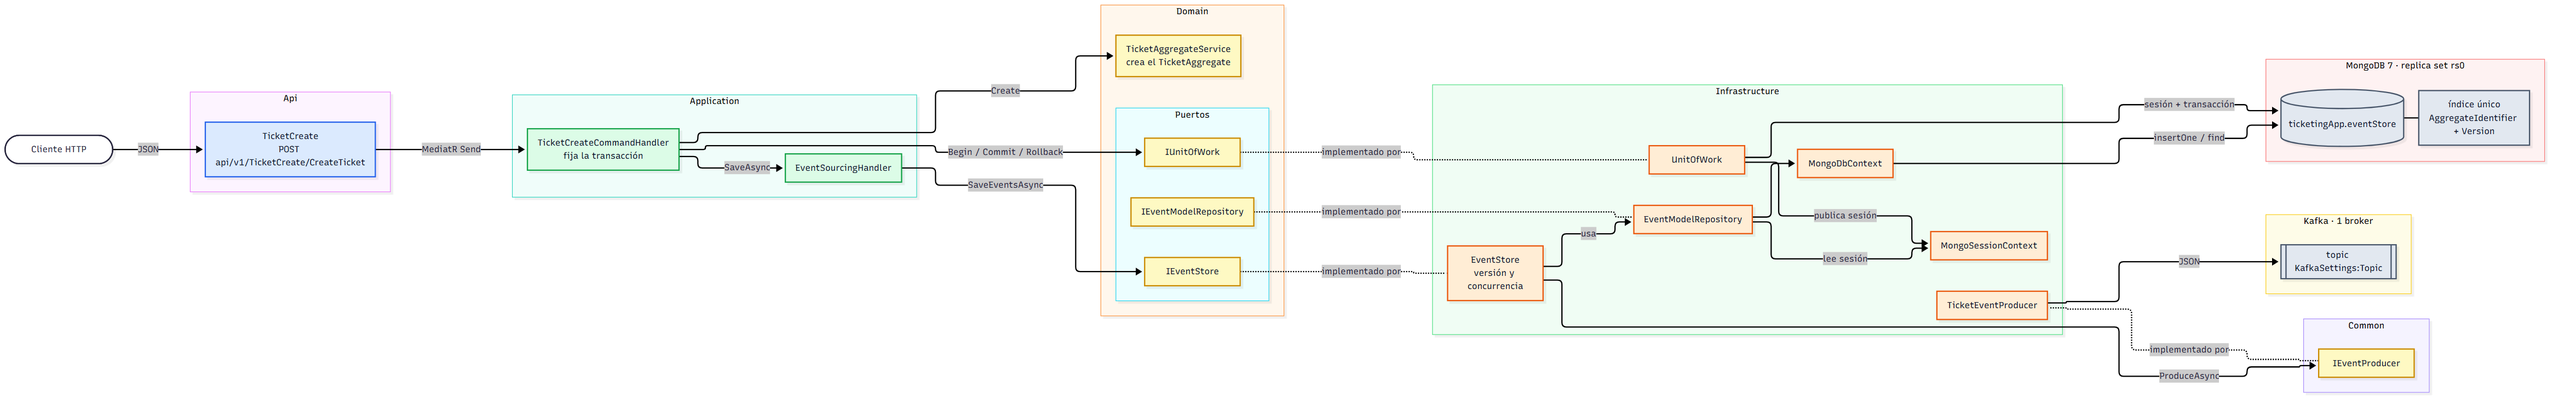
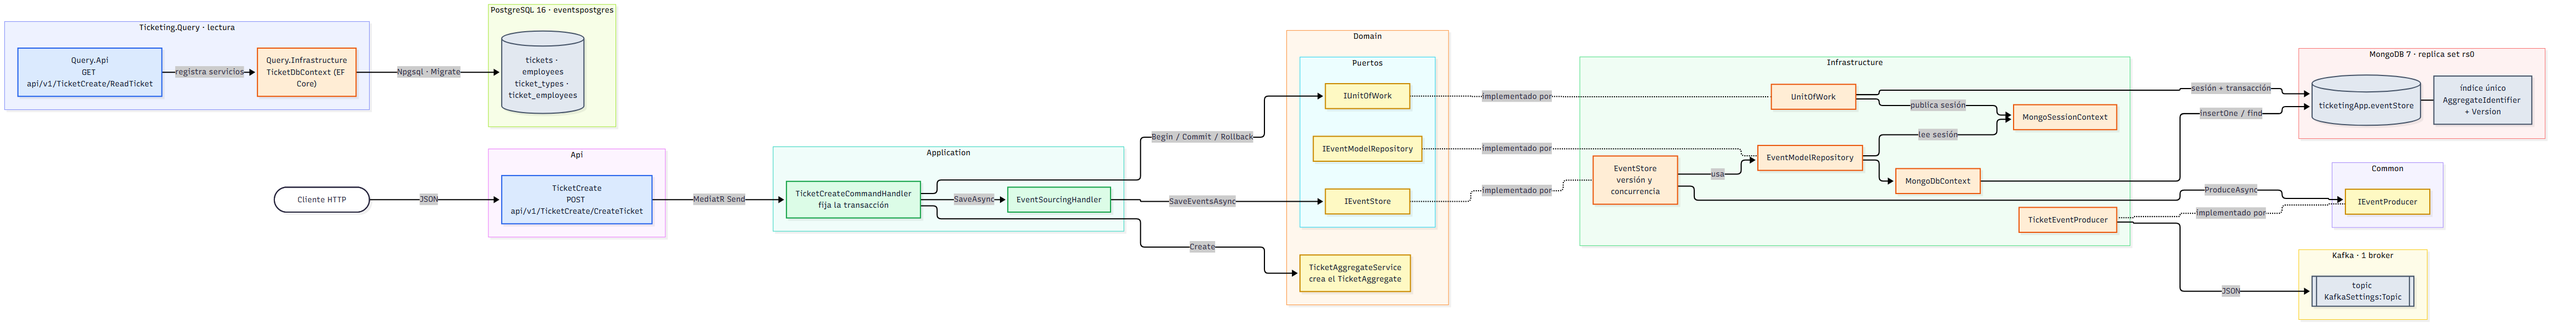
documentation update

diff --git a/Microservices-Events/docs/arquitectura.md b/Microservices-Events/docs/arquitectura.md
@@ -17,20 +17,23 @@ flowchart LR
         Infra[Infrastructure] --> Dom
         Api --> Infra
     end
-    Query[Ticketing.Query.Api]
+    Query[Ticketing.Query<br/>Api · Application · Domain · Infrastructure]
     Common[(Ticketing.Common<br/>Message · eventos · Response · ErrorType)]
     Mongo[(MongoDB<br/>ticketingApp.eventStore)]
+    Postgres[(PostgreSQL<br/>eventspostgres)]
     Kafka[[Kafka<br/>topic de eventos]]
 
     Client -->|POST| Api
     Infra --> Mongo
     Infra --> Kafka
+    Query --> Postgres
     App --> Common
     Dom --> Common
 ```
 
 - **`Ticketing.Command`** recibe órdenes y las convierte en eventos. Es el único lado con lógica.
-- **`Ticketing.Query.Api`** es la API del servicio de consulta, un proyecto independiente.
+- **`Ticketing.Query`** es el servicio de consulta: cuatro capas propias y un modelo relacional en
+  PostgreSQL. Estructura y modelo de datos en [*Estructura de Ticketing.Query*](query-estructura.md).
 - **`Ticketing.Common`** (`Ticketing.Core/`) es lo que ambos servicios deben entender igual: la jerarquía
   de eventos, el contrato de respuesta y el puerto `IEventProducer`. No conoce MongoDB ni ASP.NET.
 - **Kafka** recibe cada evento que se guarda en Mongo. Hoy solo lo escribe `Ticketing.Command`; ningún
@@ -97,6 +100,17 @@ flowchart LR
         Topic[["topic KafkaSettings:Topic"]]
     end
 
+    subgraph QUERY["Ticketing.Query · lectura"]
+        direction TB
+        QApi["Query.Api<br/>GET api/v1/TicketCreate/ReadTicket"]
+        QInf["Query.Infrastructure<br/>TicketDbContext (EF Core)"]
+    end
+
+    subgraph PG["PostgreSQL 16 · eventspostgres"]
+        direction TB
+        Tables[("tickets · employees<br/>ticket_types · ticket_employees")]
+    end
+
     Client -->|JSON| Ctrl
     Ctrl -->|MediatR Send| Handler
     Handler -->|Create| TAS
@@ -119,18 +133,20 @@ flowchart LR
     DbCtx -->|insertOne / find| Coll
     Coll --- Idx
     Prod -->|JSON| Topic
+    QApi -->|registra servicios| QInf
+    QInf -->|Npgsql · Migrate| Tables
 
     classDef api fill:#dbeafe,stroke:#2563eb,color:#0f172a
     classDef app fill:#dcfce7,stroke:#16a34a,color:#0f172a
     classDef dom fill:#fef9c3,stroke:#ca8a04,color:#0f172a
     classDef inf fill:#ffedd5,stroke:#ea580c,color:#0f172a
     classDef db fill:#e2e8f0,stroke:#475569,color:#0f172a
-    class Ctrl api
+    class Ctrl,QApi api
     class Handler,ESH app
     class TAS,IUoW,IES,IEMR dom
-    class UoW,Ctx,ES,Repo,DbCtx,Prod inf
+    class UoW,Ctx,ES,Repo,DbCtx,Prod,QInf inf
     class IEP dom
-    class Coll,Idx,Topic db
+    class Coll,Idx,Topic,Tables db
 ```
 
 **Cómo leerlo**
@@ -168,7 +184,11 @@ La dependencia apunta siempre hacia dentro (hacia `Domain`):
 | `Ticketing.Command.Infrastructure` | Los **adaptadores**: los de MongoDB (contexto, sesión, Unit of Work, repositorio, `EventStore`, mapeos BSON e índices) y el productor de Kafka (`TicketEventProducer`). | `Domain` | `MongoDB.Driver` y `MongoDB.Bson` 3.12.0, `Microsoft.Extensions.Configuration.Abstractions`, `Microsoft.Extensions.Options`; `Confluent.Kafka` llega transitivo desde `Common` |
 | `Ticketing.Command.UnitTest` | Proyecto de tests. | — | xUnit 2.9.3, coverlet |
 | `Ticketing.Common` | Contratos compartidos: eventos, `Response<T>`, `ErrorType` e `IEventProducer`. | — | `Confluent.Kafka` 2.16.0, `Microsoft.Extensions.Logging.Abstractions` |
-| `Ticketing.Query.Api` | API del servicio de consulta. | — | `Microsoft.AspNetCore.OpenApi` |
+| `Ticketing.Query.Api` | HTTP del servicio de consulta: controller, versionado, Swagger. *Composition root*; ejecuta `Migrate()` al arrancar. | `Application`, `Infrastructure`, `Common` | `Asp.Versioning.Mvc` y `.ApiExplorer` 10.2.1, `Swashbuckle.AspNetCore` y `.Annotations` 10.3.1, `MediatR` 14.2.0, `Microsoft.AspNetCore.OpenApi` 10.0.11 |
+| `Ticketing.Query.Application` | Caso de uso `ReadTicket`: comando, handler (MediatR) y validador (FluentValidation). | `Common` | `MediatR` 14.2.0, `FluentValidation` y `.DependencyInjectionExtensions` 12.2.0, `AutoMapper` 16.2.0 |
+| `Ticketing.Query.Domain` | Entidades (`Ticket`, `TicketType`, `Employee`), `BaseAudit` y el value object `Address`. | — | — |
+| `Ticketing.Query.Infrastructure` | `TicketDbContext`, configuraciones de entidad y migraciones de PostgreSQL. | `Domain` | `Microsoft.EntityFrameworkCore` 10.0.14, `Npgsql.EntityFrameworkCore.PostgreSQL` 10.0.3 |
+| `Ticketing.Query.UnitTest` | Proyecto de tests. | — | — |
 
 `Application` solo ve interfaces de `Domain`; nunca `MongoDB.Driver`. Eso es lo que permite que el handler
 sea el mismo si mañana el event store deja de ser MongoDB.

diff --git a/Microservices-Events/README.md b/Microservices-Events/README.md
@@ -1,6 +1,6 @@
 # Microservices-Events — Ticketing
 
-Proyecto de microservicios **dirigidos por eventos** en **.NET 10** con **MongoDB** y **Kafka**. Es un proyecto de
+Proyecto de microservicios **dirigidos por eventos** en **.NET 10** con **MongoDB**, **Kafka** y **PostgreSQL**. Es un proyecto de
 aprendizaje independiente del monolito: no forma parte de la migración Strangler Fig, tiene su propia
 solución y su propio Docker.
 
@@ -22,8 +22,8 @@ suelen explicarse solo en teoría:
 |---|---|
 | `Ticketing.Command` (Api, Application, Domain, Infrastructure) | Lado de escritura: `POST api/v1/TicketCreate/CreateTicket` crea un ticket, guarda su `TicketCreatedEvent` en el event store dentro de una transacción y lo publica en Kafka |
 | `Ticketing.Common` | Contratos compartidos entre servicios: `Message`, `EventBase`, los eventos, `Response<T>`, `ErrorType` e `IEventProducer` |
-| `Ticketing.Query.Api` | API del servicio de consulta (sin consumidor de Kafka todavía) |
-| Docker | MongoDB 7 como replica set de un nodo; Zookeeper, un broker de Kafka 3.7 y Kafka UI (`localhost:8080`) |
+| `Ticketing.Query` (Api, Application, Domain, Infrastructure) | Lado de lectura: modelo relacional en PostgreSQL con EF Core, migración `Initial` y el esqueleto del caso de uso `ReadTicket` (sin consumidor de Kafka todavía). Ver [*Estructura de Ticketing.Query*](docs/query-estructura.md) |
+| Docker | MongoDB 7 como replica set de un nodo; Zookeeper, un broker de Kafka 3.7 y Kafka UI (`localhost:8080`); PostgreSQL 16 |
 | CI | `ci-micro-events.yaml`: restaura, compila y ejecuta el proyecto de tests |
 
 ## Arquitectura
@@ -61,7 +61,7 @@ petición, están en [*Arquitectura*](docs/arquitectura.md#vista-de-componentes)
 
 ```
 Microservices-Events/
-├── Docker/docker-compose.yml          MongoDB (replica set rs0), Zookeeper, Kafka y Kafka UI
+├── Docker/docker-compose.yml          MongoDB (replica set rs0), Zookeeper, Kafka, Kafka UI y PostgreSQL
 ├── docs/                              Documentación (ver tabla siguiente)
 └── Ticketing/
     ├── Ticketing.slnx
@@ -74,7 +74,11 @@ Microservices-Events/
     │   ├── Ticketing.Command.Infrastructure/  MongoDB: contexto, sesión, UoW, repositorio, EventStore, mapeos, índices; productor de Kafka
     │   └── Ticketing.Command.UnitTest/
     └── Ticketing.Query/
-        └── Ticketing.Query.Api/
+        ├── Ticketing.Query.Api/             Controller, versionado, composition root; Migrate() al arrancar
+        ├── Ticketing.Query.Application/     Feature ReadTicket (MediatR, FluentValidation)
+        ├── Ticketing.Query.Domain/          Entidades, BaseAudit y value object Address
+        ├── Ticketing.Query.Infrastructure/  TicketDbContext, configuraciones de entidad y migraciones (PostgreSQL)
+        └── Ticketing.Query.UnitTest/
 ```
 
 ## Documentación
@@ -82,6 +86,7 @@ Microservices-Events/
 | Documento | Qué cuenta |
 |---|---|
 | [Arquitectura](docs/arquitectura.md) | Proyectos y dependencias, arranque, registro en DI y recorrido completo de una petición |
+| [Estructura de Ticketing.Query](docs/query-estructura.md) | Proyectos y dependencias del lado de lectura, modelo de datos en PostgreSQL, migraciones y lo que queda pendiente |
 | [Agregados y event sourcing](docs/agregados.md) | Cómo se modela un ticket como agregado inmutable, qué significan sus versiones y cómo se reproduce desde sus eventos |
 | [Event store y modelo de eventos](docs/event-store.md) | Cómo se guarda (y publica) un evento, el control de concurrencia, el mapeo a MongoDB y cómo añadir un evento nuevo |
 | [Mensajería con Kafka](docs/mensajeria-kafka.md) | El compose de Kafka, los dos listeners, el productor, cuándo se publica cada evento y las limitaciones actuales |
@@ -90,7 +95,7 @@ Microservices-Events/
 
 ## Stack
 
-.NET 10 · ASP.NET Core (controllers) · MongoDB 7 + `MongoDB.Driver` 3.12 · Kafka 3.7 + `Confluent.Kafka` 2.16 ·
+.NET 10 · ASP.NET Core (controllers) · MongoDB 7 + `MongoDB.Driver` 3.12 · Kafka 3.7 + `Confluent.Kafka` 2.16 · PostgreSQL 16 + EF Core 10 + `Npgsql.EntityFrameworkCore.PostgreSQL` 10 ·
 MediatR 14 · FluentValidation 12 · Asp.Versioning 10 · Swashbuckle 10 · xUnit.
 
 ## Puesta en marcha rápida

diff --git a/Microservices-Events/docs/entorno-local.md b/Microservices-Events/docs/entorno-local.md
@@ -2,7 +2,8 @@
 
 [← Volver al README](../README.md)
 
-Cómo levantar el proyecto (MongoDB y Kafka) y probar el único endpoint que existe hoy.
+Cómo levantar el proyecto (MongoDB, Kafka y PostgreSQL) y probar el endpoint de `Ticketing.Command`. El
+servicio de consulta y su base de datos tienen su propio apartado: [PostgreSQL y `Ticketing.Query`](#6-postgresql-y-ticketingquery).
 
 ## Requisitos
 
@@ -18,8 +19,9 @@ Desde la raíz del repo:
 docker compose -f Microservices-Events/Docker/docker-compose.yml up -d
 ```
 
-Ese comando levanta también Zookeeper, Kafka y Kafka UI (ver el [apartado 2](#2-kafka-y-su-interfaz)). Para
-arrancar solo MongoDB: `... up -d mongodb`.
+Ese comando levanta también Zookeeper, Kafka y Kafka UI (ver el [apartado 2](#2-kafka-y-su-interfaz)) y
+PostgreSQL (ver el [apartado 6](#6-postgresql-y-ticketingquery)). Para arrancar solo MongoDB:
+`... up -d mongodb`.
 
 | Elemento | Valor |
 |---|---|
@@ -148,6 +150,32 @@ Y el mismo evento publicado en Kafka: en `http://localhost:8080`, *Topics* → e
 ```bash
 docker exec kafka kafka-console-consumer.sh --bootstrap-server kafka:9092 --topic KAFKA_TOPIC --from-beginning
 ```
+
+## 6. PostgreSQL y Ticketing.Query
+
+PostgreSQL lo levanta el mismo compose y es la base del servicio de consulta.
+
+| Elemento | Valor |
+|---|---|
+| Contenedor | `postgresql`, imagen `postgres:16.0` |
+| Puerto en el host | `5432` |
+| Base de datos y usuario | `eventspostgres` y `postgresqlsa` |
+| Volumen con nombre | `postgres_data` (`/var/lib/postgresql/data`) |
+
+La contraseña no está en el compose: el contenedor la extrae de un `secrets.json` que contiene la cadena
+`PostgresConnection`. El compose exige la variable `POSTGRES_SECRETS_DIR` en `Docker/.env`, con la carpeta
+donde está ese fichero; sin ella `docker compose up` falla.
+
+Para arrancar la API de consulta, con PostgreSQL en marcha:
+
+```bash
+dotnet run --project Microservices-Events/Ticketing/Ticketing.Query/Ticketing.Query.Api
+```
+
+La cadena `ConnectionStrings:PostgresConnection` va vacía en `appsettings.json`: se aporta por *User Secrets*
+(o por `secrets.json`/variables de entorno) y debe coincidir con la contraseña del contenedor. Al arrancar,
+la API aplica las migraciones y crea las tablas. Perfiles y puertos:
+`Ticketing.Query/Ticketing.Query.Api/Properties/launchSettings.json`.
 
 ## Tests y CI
 

diff --git a/Microservices-Events/docs/decisiones-tecnicas.md b/Microservices-Events/docs/decisiones-tecnicas.md
@@ -153,6 +153,21 @@ event store: si hubiera que reconstruir un agregado, se hace desde Mongo.
 
 Detalle y limitaciones en [*Mensajería con Kafka*](mensajeria-kafka.md).
 
+### PostgreSQL con EF Core para el modelo de lectura
+
+`Ticketing.Query` guarda el estado ya proyectado en tablas relacionales (`tickets`, `employees`,
+`ticket_types` y la tabla intermedia `ticket_employees`), mientras que `Command` mantiene la secuencia de
+eventos en MongoDB. Cada lado usa el almacén que encaja con su trabajo: eventos inmutables añadidos al final
+frente a consultas con relaciones. Las dos bases son independientes: `Query` nunca lee la de `Command`.
+
+- **Esquema por migraciones:** `Program.cs` ejecuta `Migrate()` al arrancar; la migración vive en
+  `Infrastructure`, y `Api` es el proyecto de inicio para `dotnet ef`.
+- **Value object `Address` como `ComplexType`:** sus columnas van en `employees`, sin tabla ni `Id` propios.
+- **Cadena de conexión fuera del repo:** `PostgresConnection` va vacía en `appsettings.json` y se aporta por
+  secretos.
+
+Estructura y modelo completo en [*Estructura de Ticketing.Query*](query-estructura.md).
+
 ### Un servicio por responsabilidad, una solución
 
 `Ticketing.slnx` agrupa en carpetas lógicas `Ticketing.Command` y `Ticketing.Query`, con `Ticketing.Common`

diff --git a/Microservices-Events/docs/mensajeria-kafka.md b/Microservices-Events/docs/mensajeria-kafka.md
@@ -153,7 +153,9 @@ proceso. No está implementado ni decidido; se anota aquí para no olvidar que l
 - **Un productor por mensaje.** `TicketEventProducer` construye y destruye un `IProducer` en cada
   `ProduceAsync`. Funciona, pero abre una conexión nueva por evento; el uso habitual es un productor de
   larga vida registrado como *singleton*.
-- **Sin consumidor.** Nada lee el topic todavía; `Ticketing.Query.Api` no usa Kafka.
+- **Sin consumidor.** Nada lee el topic todavía; `Ticketing.Query.Api` no usa Kafka. El consumidor que
+  proyecte los eventos sobre PostgreSQL es lo pendiente en
+  [*Estructura de Ticketing.Query*](query-estructura.md#pendiente).
 - **Con Kafka caído**, la petición no termina bien (el envío falla o espera al *timeout* del cliente) y,
   como la transacción de Mongo sigue abierta, no se guarda nada. No está probado el tiempo de espera.
 - **Sin pruebas automáticas** del productor ni de `EventStore` con Kafka.

diff --git a/Microservices-Events/docs/query-estructura.md b/Microservices-Events/docs/query-estructura.md
@@ -100,6 +100,7 @@ erDiagram
 entidad se descubren con `ApplyConfigurationsFromAssembly`.
 
 La cadena `PostgresConnection` no se versiona: `appsettings.json` la declara vacía y se aporta por secretos.
+Cómo levantar PostgreSQL y la API, en [*Entorno local*](entorno-local.md#6-postgresql-y-ticketingquery).
 
 ## Migraciones
 
@@ -120,5 +121,6 @@ dotnet ef migrations add NombreMigracion \
 
 - Registrar MediatR y los validadores en `AddApplicationServices()`.
 - Implementar `ReadTicket` (el handler lanza `NotImplementedException`).
-- Consumidor de Kafka que proyecte `TicketCreatedEvent` sobre `tickets`.
+- Consumidor de Kafka que proyecte `TicketCreatedEvent` sobre `tickets` (el productor está en
+  [*Mensajería con Kafka*](mensajeria-kafka.md)).
 - Tests de `Ticketing.Query.UnitTest`.
